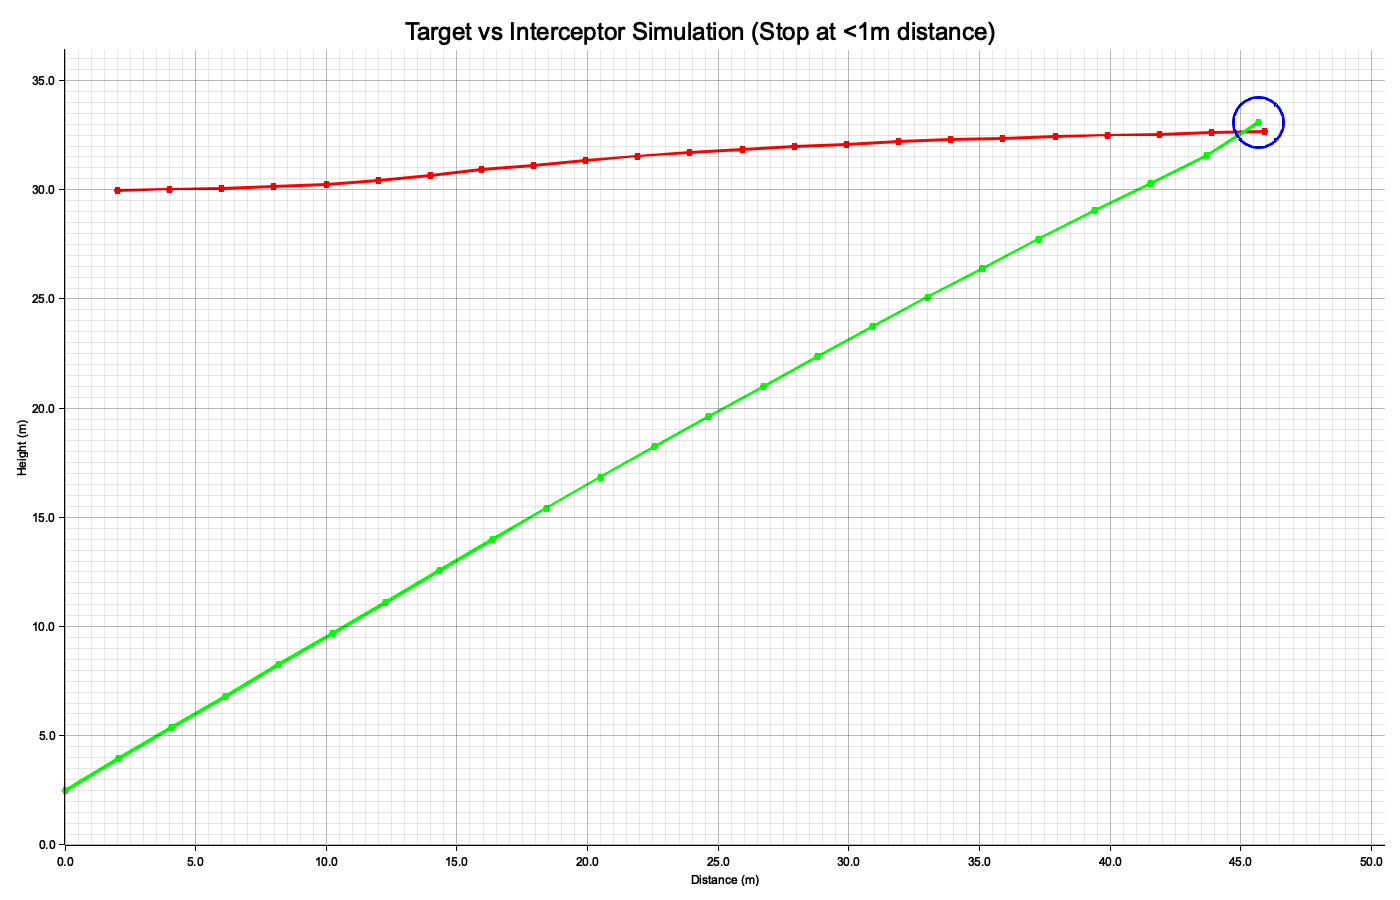
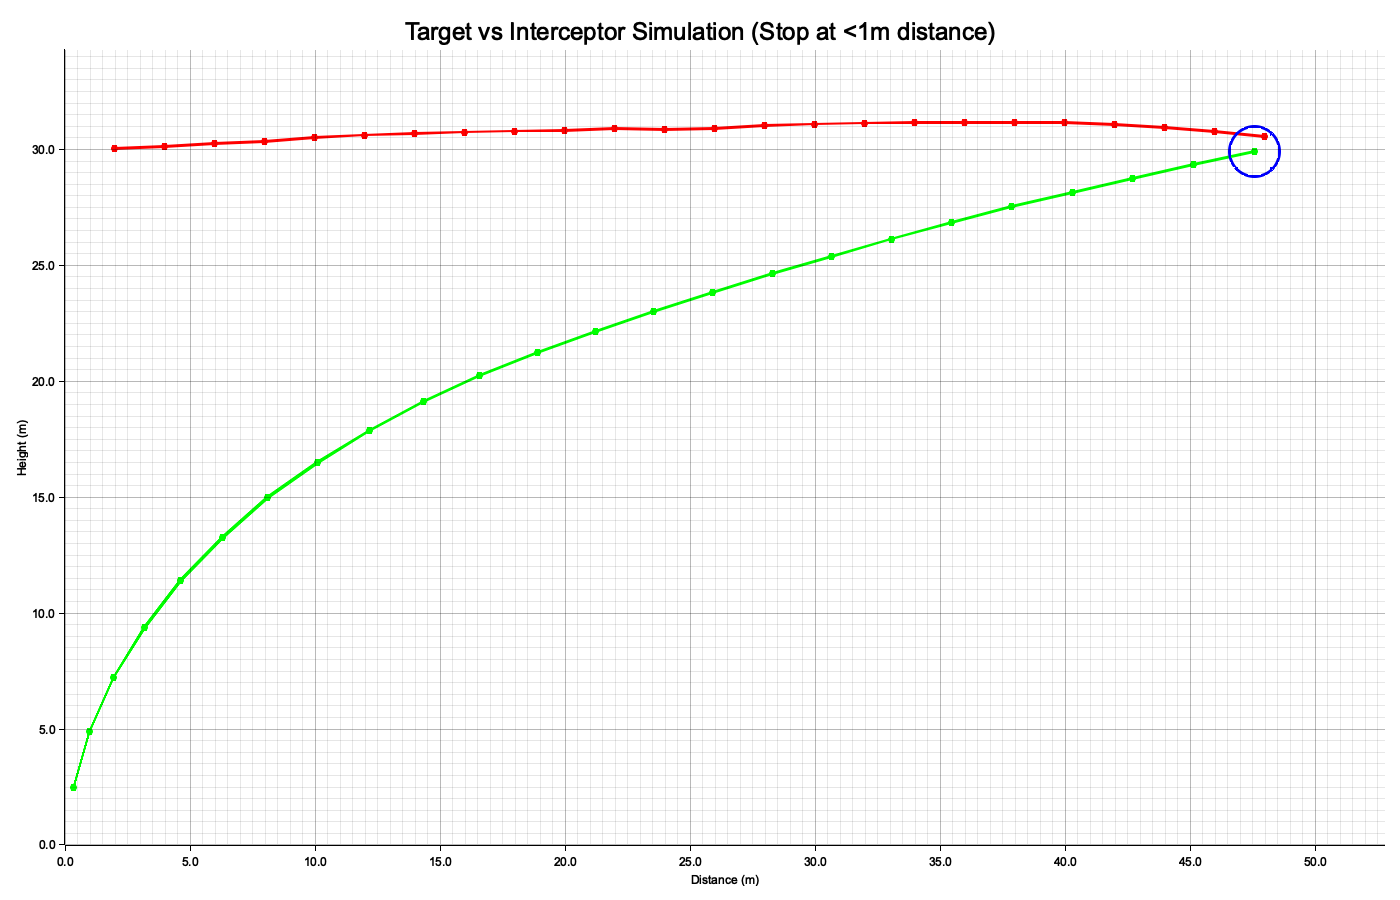
Implemented PN

Changed region(s): [[0.0307, 0.0622, 0.9829, 0.9644]]

diff --git a/coding_interview_rust-master/src/main.rs b/coding_interview_rust-master/src/main.rs
@@ -91,10 +91,10 @@ fn calculate_steering_direction(from: &Interceptor, to: &Target) -> (f64, f64) {
     let lead_dir_y = lead_dy / lead_mag;
 
     // --- Blend lead and LOS
-    let lambda = (distance / 1.5).clamp(0.0, 1.0);
+    let blend_factor = (distance / 1.5).clamp(0.0, 1.0);
 
-    let dir_x = (1.0 - lambda) * los_x + lambda * lead_dir_x + offset_gain * los_x_norm;
-    let dir_y = (1.0 - lambda) * los_y + lambda * lead_dir_y + offset_gain + los_y_norm;
+    let dir_x = (1.0 - blend_factor) * los_x + blend_factor * lead_dir_x + offset_gain * los_x_norm;
+    let dir_y = (1.0 - blend_factor) * los_y + blend_factor * lead_dir_y + offset_gain * los_y_norm;
 
     // Normalize blended vector
     let mag = (dir_x * dir_x + dir_y * dir_y).sqrt();
@@ -104,7 +104,51 @@ fn calculate_steering_direction(from: &Interceptor, to: &Target) -> (f64, f64) {
         (los_x, los_y)
     }
 }
+fn calculate_steering_direction_pn(from: &Interceptor, to: &Target) -> (f64, f64) {
+    // --- LOS direction
+    let dx = to.x - from.x;
+    let dy = to.y - from.y;
+    let distance = (dx * dx + dy * dy).sqrt();
 
+    // relative velocity
+    let vrel_x = to.vx -from.vx;
+    let vrel_y = to.vy -from.vy;
+
+    // LOS rate lambda_dot = (r x v_rel) / |r|^2   (2D cross product z-component)
+    let lambda_dot = (dx * vrel_y - dy * vrel_x) / distance.powi(2);
+
+    // N-Gain (2-5)
+    let n_gain = 2.0;
+
+    // --- FIX: heading fallback if interceptor speed is ~0
+    let speed_i = (from.vx * from.vx + from.vy * from.vy).sqrt();
+    let (hx, hy) = if speed_i > 1e-6 {
+        (from.vx / speed_i, from.vy / speed_i)
+    } else {
+        // start by pointing along LOS
+        (dx / distance, dy / distance)
+    };
+
+    // Commanded turn rate omega = N * lambda_dot
+    let omega = n_gain * lambda_dot;
+
+    // Rotate heading by omega
+    let cos_omega = (omega*1.0).cos();
+    let sin_omega = (omega*1.0).sin();
+
+    let dir_x =  cos_omega * hx - sin_omega * hy;
+    let dir_y =  sin_omega * hx + cos_omega * hy;
+
+    //Magnitude for Normalization
+    let mag = (dir_x.powi(2) + dir_y.powi(2)).sqrt();
+    (dir_x / mag, dir_y / mag)
+
+    // flight path angle
+    //let gamma = arctan2(from.vy, from.vx);
+
+    // LOS angle
+    //let lambda = calculate_angle_between_vectors(from.vx, from.vy, to.vx, to.vy);
+}
 // Calculate angle between two velocity vectors in degrees
 fn calculate_angle_between_vectors(vx1: f64, vy1: f64, vx2: f64, vy2: f64) -> f64 {
     let dot_product = vx1 * vx2 + vy1 * vy2;
@@ -176,7 +220,7 @@ fn main() -> Result<(), Box<dyn std::error::Error>> {
         target.vy = rotated_vy;
         
         // Interceptor steers directly towards target
-        let (mut dir_x, mut dir_y) = calculate_steering_direction(&interceptor, &target);
+        let (mut dir_x, mut dir_y) = calculate_steering_direction_pn(&interceptor, &target);
         
         // Normalize direction vector
         let dir_magnitude = (dir_x * dir_x + dir_y * dir_y).sqrt();
